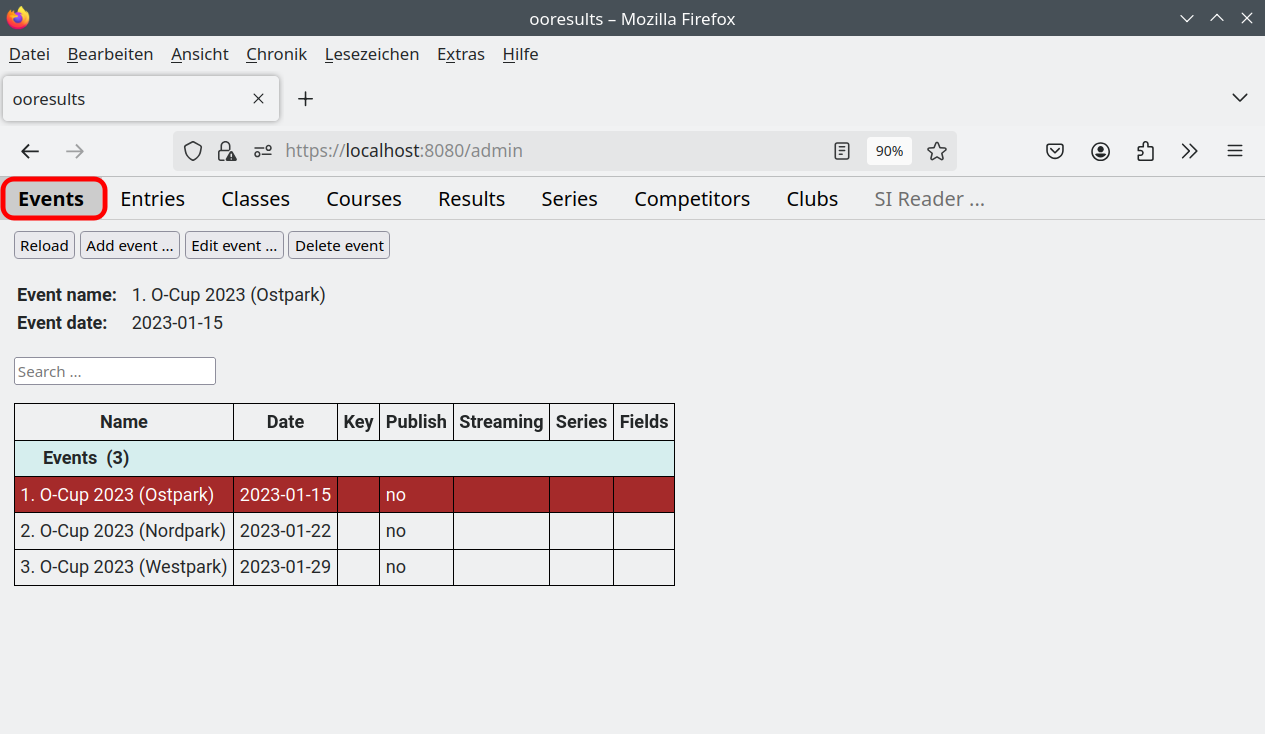
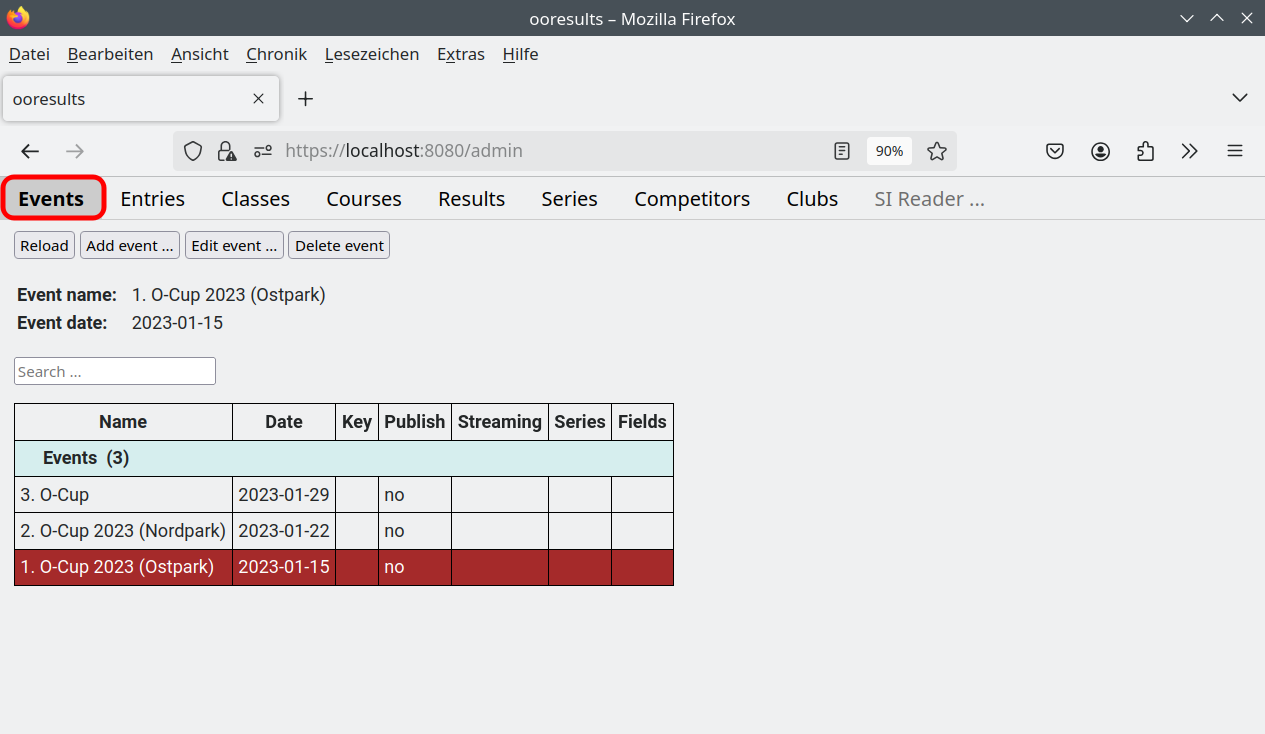
Events are no longer sorted by name, but by date in descending order

diff --git a/webtests/tests/events/test_events.py b/webtests/tests/events/test_events.py
@@ -345,7 +345,7 @@ def test_if_an_event_is_deleted_then_the_event_is_no_longer_displayed(
     dialog.submit()
 
     # select event
-    event_page.table.select_row(2)
+    event_page.table.select_row(3)
     assert event_page.get_event_name() == "Test-Lauf heute"
     assert event_page.get_event_date() == "2023-12-28"
 
@@ -389,7 +389,7 @@ def test_if_an_event_is_deleted_then_no_event_is_selected(
     dialog.submit()
 
     # select event
-    event_page.table.select_row(2)
+    event_page.table.select_row(3)
     assert event_page.get_event_name() == "Test-Lauf heute"
     assert event_page.get_event_date() == "2023-12-28"
 
@@ -494,6 +494,73 @@ def test_if_several_events_are_added_then_the_added_events_are_displayed(
     ]
 
 
+def test_events_are_displayed_ordered_by_date_descending(
+    event_page: EventPage, event: None
+):
+    dialog = event_page.actions.add()
+    dialog.enter_values(
+        name="Test-Lauf 1",
+        date="2023-12-27",
+        key=None,
+        publish=False,
+        series="Serie",
+        fields=["c", "d"],
+        streaming_address=None,
+        streaming_key=None,
+        streaming_enabled=None,
+    )
+    dialog.submit()
+
+    dialog = event_page.actions.add()
+    dialog.enter_values(
+        name="Test-Lauf 2",
+        date="2023-12-29",
+        key="local",
+        publish=False,
+        series="Serie",
+        fields=["e", "f"],
+        streaming_address="myhost:8081",
+        streaming_key="secret-key",
+        streaming_enabled=True,
+    )
+    dialog.submit()
+
+    # check number of rows
+    assert event_page.table.nr_of_rows() == 4
+    assert event_page.table.nr_of_columns() == 7
+
+    assert event_page.table.row(i=1) == [
+        "Events  (3)",
+    ]
+    assert event_page.table.row(i=2) == [
+        "Test-Lauf 2",
+        "2023-12-29",
+        "***",
+        "no",
+        "enabled",
+        "Serie",
+        "e, f",
+    ]
+    assert event_page.table.row(i=3) == [
+        "Test-Lauf heute",
+        "2023-12-28",
+        "***",
+        "yes",
+        "enabled",
+        "Serie",
+        "a, b",
+    ]
+    assert event_page.table.row(i=4) == [
+        "Test-Lauf 1",
+        "2023-12-27",
+        "",
+        "no",
+        "",
+        "Serie",
+        "c, d",
+    ]
+
+
 def test_if_filter_is_set_then_only_matching_rows_are_displayed(
     event_page: EventPage, event: None
 ):
@@ -595,15 +662,6 @@ def test_if_an_event_is_added_by_another_user_then_it_is_displayed_after_reload(
         "Events  (2)",
     ]
     assert event_page.table.row(i=2) == [
-        "Test-Lauf heute",
-        "2023-12-28",
-        "***",
-        "yes",
-        "enabled",
-        "Serie",
-        "a, b",
-    ]
-    assert event_page.table.row(i=3) == [
         "XXX Event",
         "2024-05-17",
         "",
@@ -611,4 +669,13 @@ def test_if_an_event_is_added_by_another_user_then_it_is_displayed_after_reload(
         "",
         "",
         "",
+    ]
+    assert event_page.table.row(i=3) == [
+        "Test-Lauf heute",
+        "2023-12-28",
+        "***",
+        "yes",
+        "enabled",
+        "Serie",
+        "a, b",
     ]

diff --git a/ooresults/model/events.py b/ooresults/model/events.py
@@ -30,7 +30,9 @@ from ooresults.repo.repo import TransactionMode
 
 def get_events() -> List[EventType]:
     with model.db.transaction():
-        return model.db.get_events()
+        events = model.db.get_events()
+    events.sort(key=lambda e: e.date, reverse=True)
+    return events
 
 
 def get_event(id: int) -> EventType:

diff --git a/docs/user/tutorial_1.rst b/docs/user/tutorial_1.rst
@@ -29,7 +29,8 @@ Einloggen
 
 .. image:: images/login_2.png
 
-Bei korrekter Eingabe von Benutzernamen und Passwort werden die bereits angelegten Wettkämpfe angezeigt.
+Bei korrekter Eingabe von Benutzernamen und Passwort werden die bereits angelegten Wettkämpfe
+in absteigender chronologischer Reihenfolge angezeigt.
 
 .. image:: images/login_3.png
 
